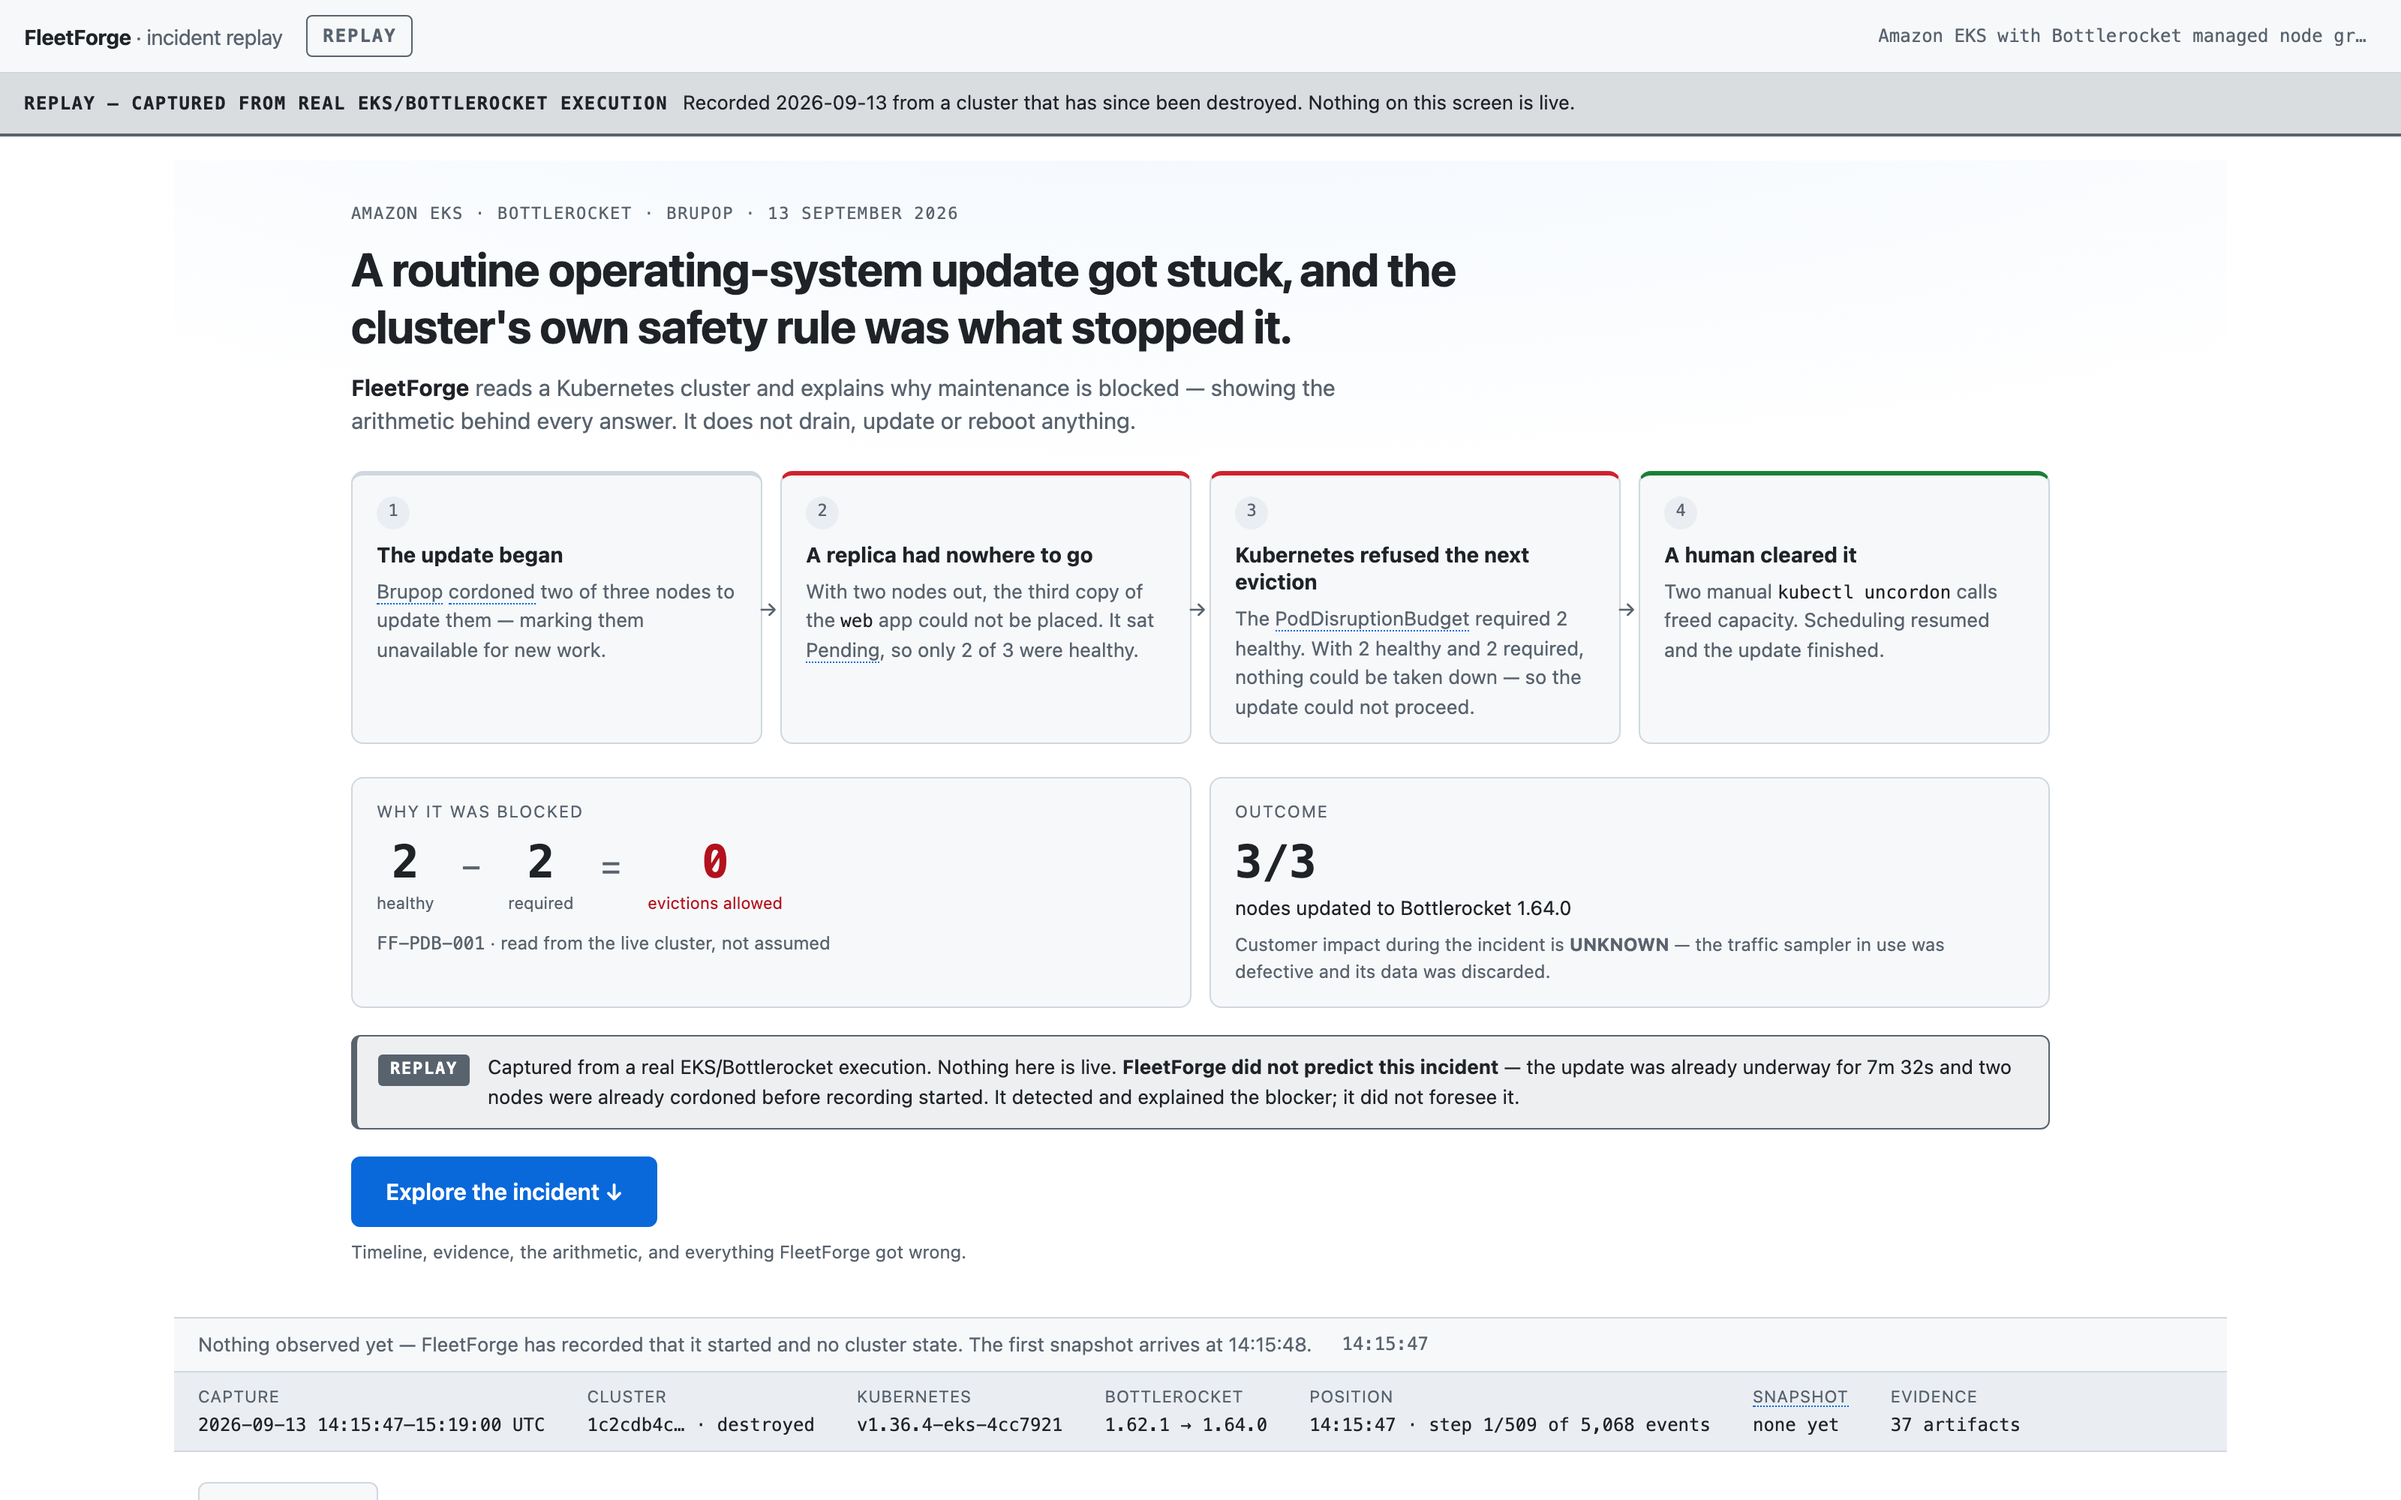
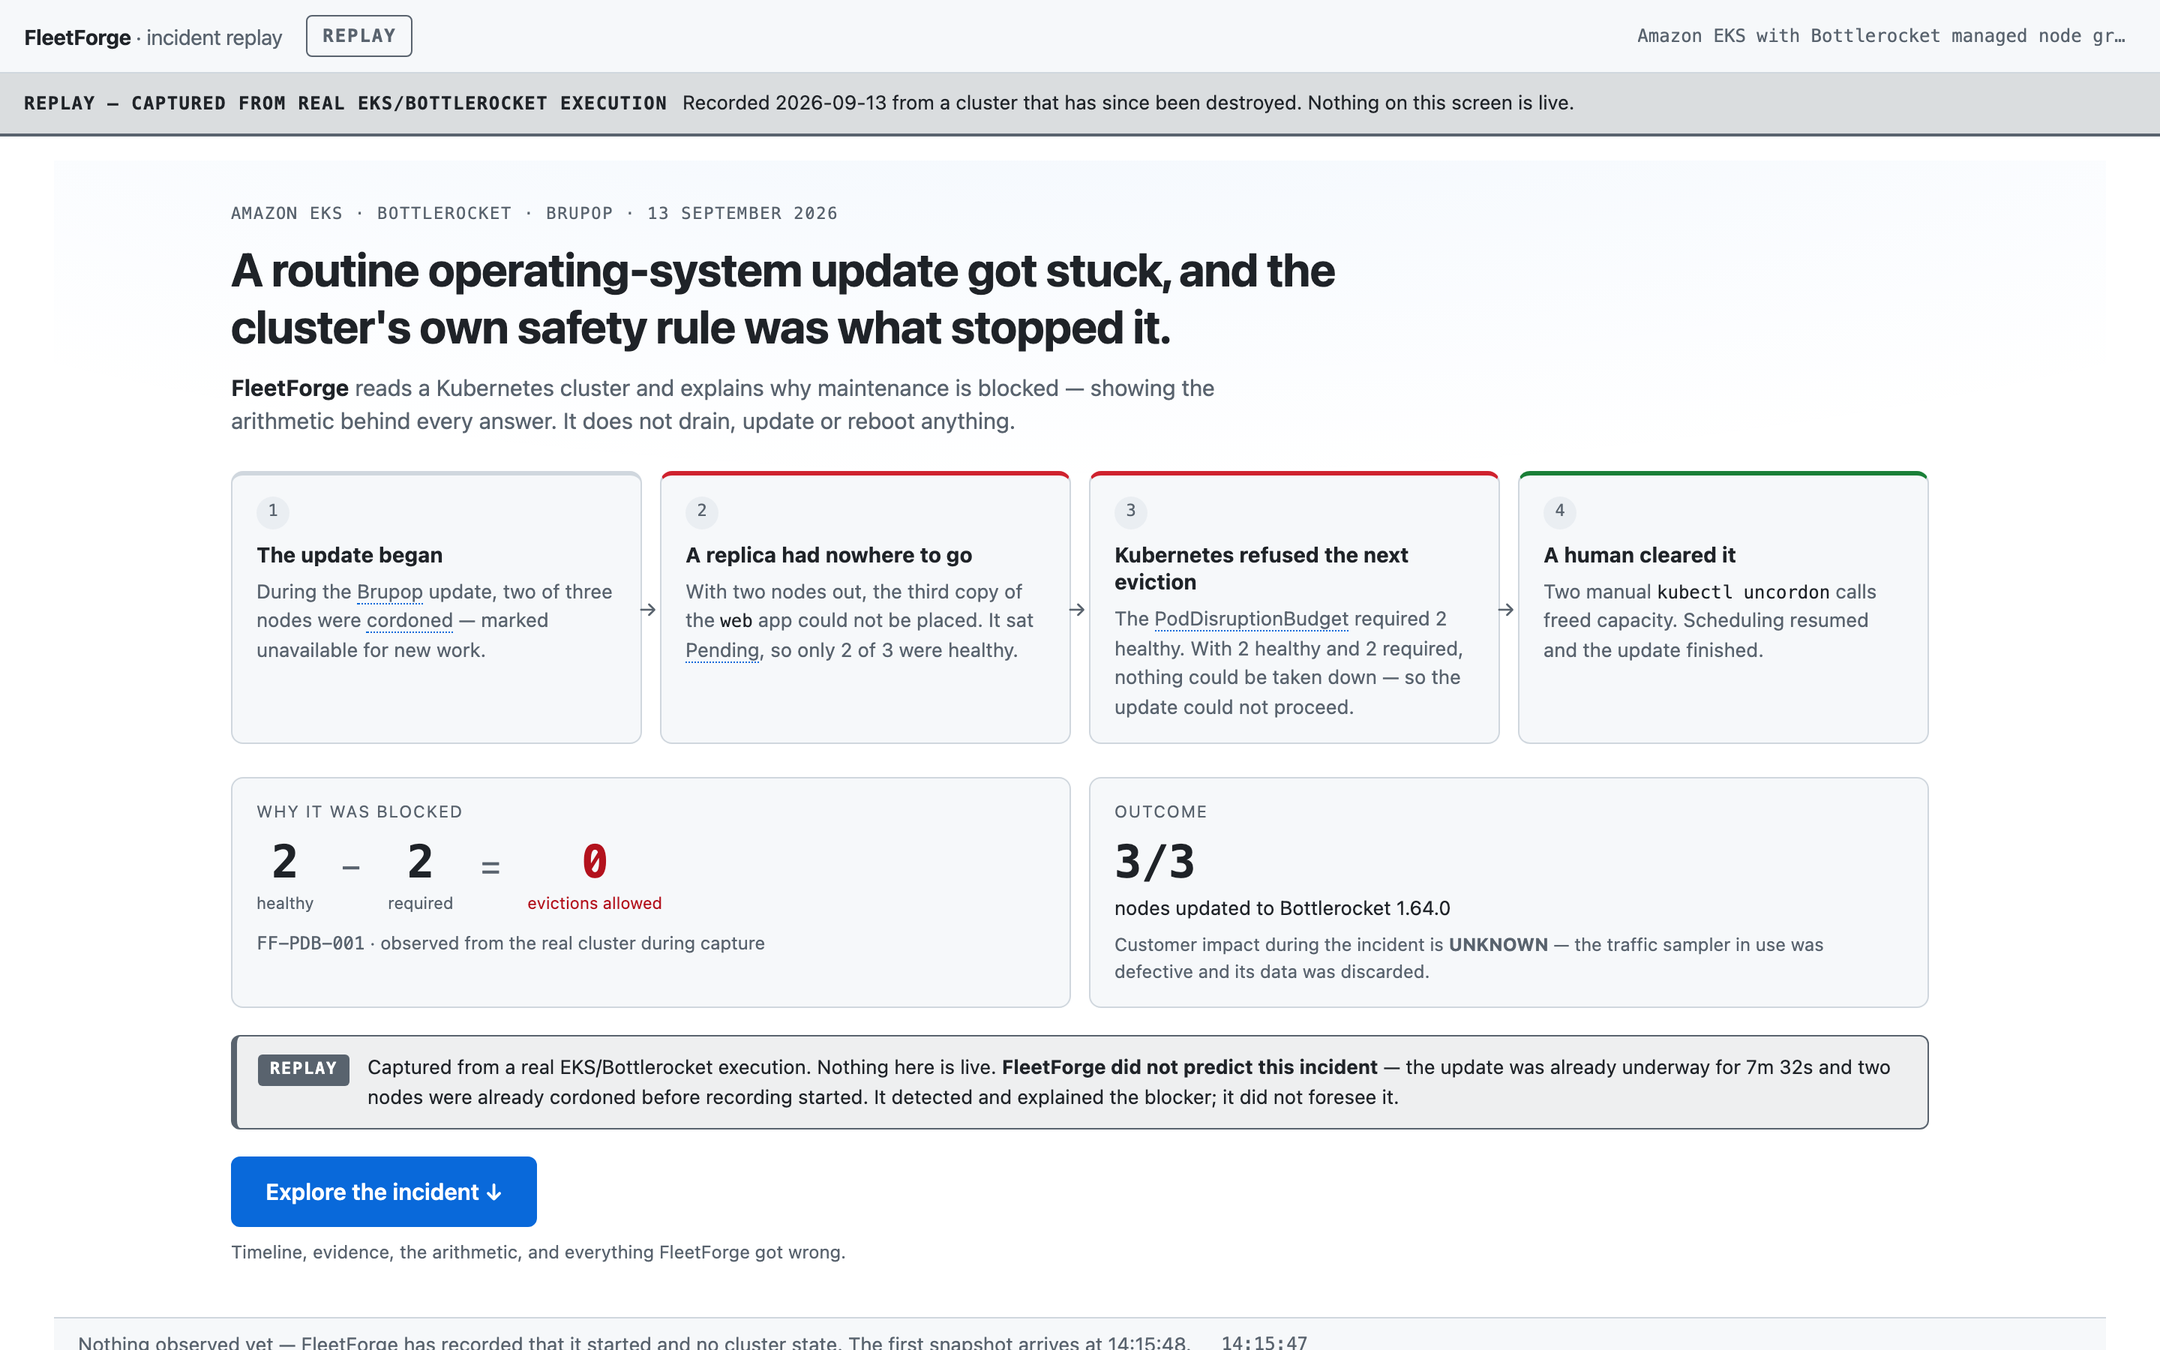
phase A closeout: wording corrections

Changed region(s): [[0.0, 0.0, 1.0, 1.0]]

diff --git a/web/src/replay.test.tsx b/web/src/replay.test.tsx
@@ -205,6 +205,25 @@ describe("the landing view", () => {
     }
   });
 
+  it("never calls the captured cluster live", () => {
+    summary();
+    const text = document.body.textContent ?? "";
+    // The page's own banner says nothing here is live. "read from the live
+    // cluster" contradicted it on the same screen.
+    expect(text).not.toMatch(/live cluster/i);
+    expect(text).toMatch(/observed from the real cluster during capture/);
+  });
+
+  it("states the cordons as observed, not as something it watched Brupop do", () => {
+    summary();
+    const step = document.querySelectorAll(".story-step")[0];
+    // Passive on purpose. The nodes were already cordoned in the first state
+    // FleetForge ever saw, so it did not witness Brupop applying them — and
+    // the active voice asserts a causal link the evidence does not carry.
+    expect(step?.textContent).toMatch(/During the Brupop update, two of three nodes were/);
+    expect(step?.textContent).not.toMatch(/Brupop cordoned/);
+  });
+
   it("explains what FleetForge is in one sentence, without jargon", () => {
     summary();
     const what = document.querySelector(".overview-what");

diff --git a/web/src/ReplayOverview.tsx b/web/src/ReplayOverview.tsx
@@ -94,8 +94,8 @@ export function ReplayOverview({
             title="The update began"
             detail={
               <>
-                <Term k="brupop" /> <Term k="cordon">cordoned</Term> two of three nodes to
-                update them — marking them unavailable for new work.
+                During the <Term k="brupop" /> update, two of three nodes were{" "}
+                <Term k="cordon">cordoned</Term> — marked unavailable for new work.
               </>
             }
           />
@@ -158,7 +158,7 @@ export function ReplayOverview({
               </span>
             </div>
             <p className="sum-note">
-              <code>{pdb.finding_id}</code> · read from the live cluster, not assumed
+              <code>{pdb.finding_id}</code> · observed from the real cluster during capture
             </p>
           </figure>
 
